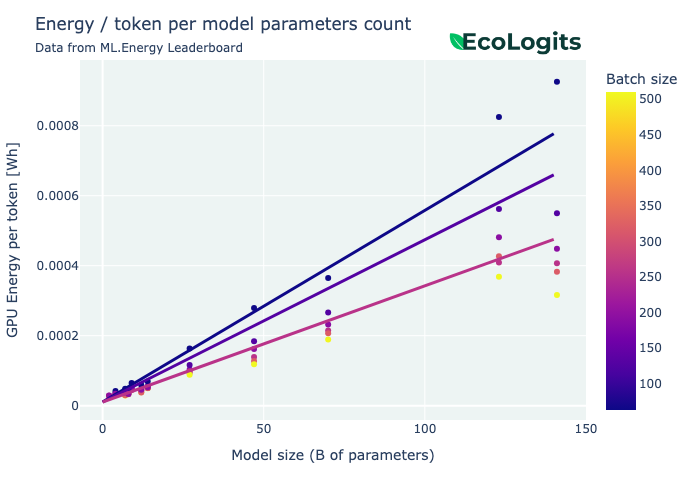
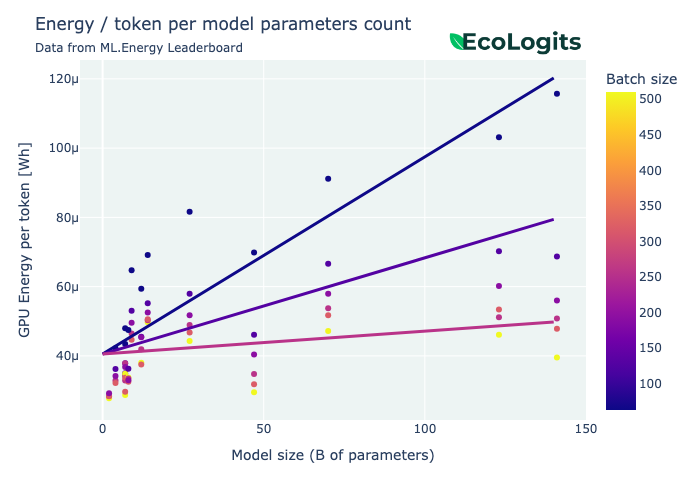
feat: update gpu energy benchmark with recent fixes

diff --git a/ecologits/impacts/llm.py b/ecologits/impacts/llm.py
@@ -7,9 +7,9 @@ from ecologits.utils.range_value import RangeValue, ValueOrRange
 
 MODEL_QUANTIZATION_BITS = 16
 
-GPU_ENERGY_ALPHA = 6.472402541479419e-06
-GPU_ENERGY_BETA = -0.0026081117794857075
-GPU_ENERGY_GAMMA = 1.0432177841728978e-05
+GPU_ENERGY_ALPHA = 1.1665273170451914e-06
+GPU_ENERGY_BETA = -0.011205921025579175
+GPU_ENERGY_GAMMA = 4.052928146734005e-05
 
 LATENCY_ALPHA = 0.0006785088094353663
 LATENCY_BETA = 0.0003119310311688259

diff --git a/docs/methodology/llm_inference.md b/docs/methodology/llm_inference.md
@@ -51,9 +51,9 @@ $$
 
 that is **linear** with $P_{\text{active}}$ and **exponential** with $B$. We fitted such a model with the data, and got 
 
-- $\alpha = 6.47 \times 10^{-6}$, 
-- $\beta = -2.60 \times 10^{-3}$, 
-- $\gamma = 1.04 \times 10^{-5}$, 
+- $\alpha = 1.17 \times 10^{-6}$, 
+- $\beta = -1.12 \times 10^{-2}$, 
+- $\gamma = 4.05 \times 10^{-5}$, 
 
 The result is illustrated below. 
 
